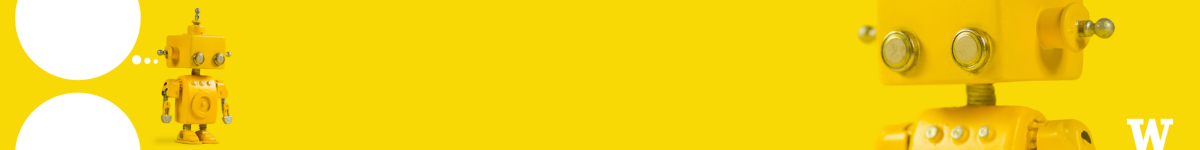
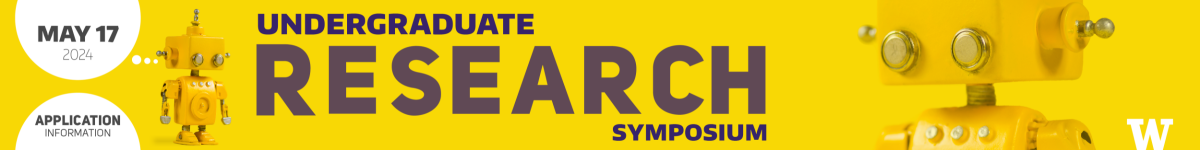
update symposium headers for 2024

diff --git a/public/stylesheets/symposium2024.css b/public/stylesheets/symposium2024.css
@@ -16,7 +16,7 @@ body {
 }
 
 #header {
-	background: #7fb439 url(../images/symposium/2024/header.png);
+/*	background: #7fb439 url(../images/symposium/2024/header.png);*/
 	height: 149px;
 	border-bottom: 1px solid #b2b2b2;
 }
@@ -53,11 +53,11 @@ h1.page_title {
 	position: absolute;
 	top: 0px;
 /*	left: 50px;*/
-  background: url(../images/symposium/2024/header-title.png) no-repeat;
+  background: url(../images/symposium/2024/header.png) repeat;
 }
 
 .proceedings h1.page_title {
-	background-image: url(../images/symposium/2024/proceedings-title.png);
+	background-image: url(../images/symposium/2024/proceedings.png);
 }
 
 h5.unit_name {
